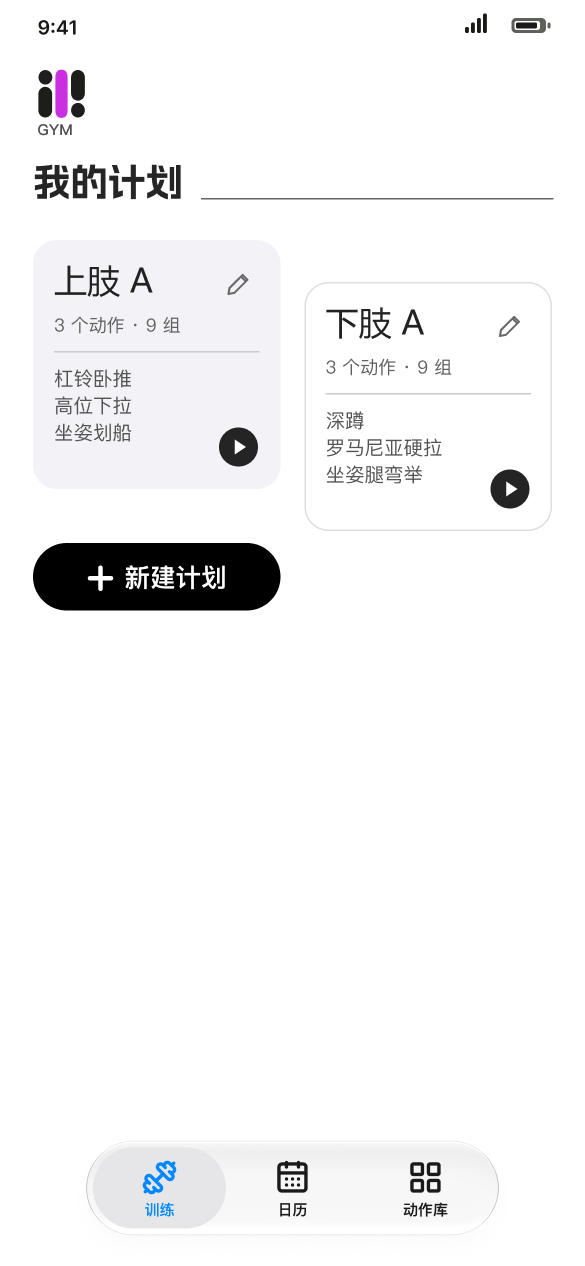
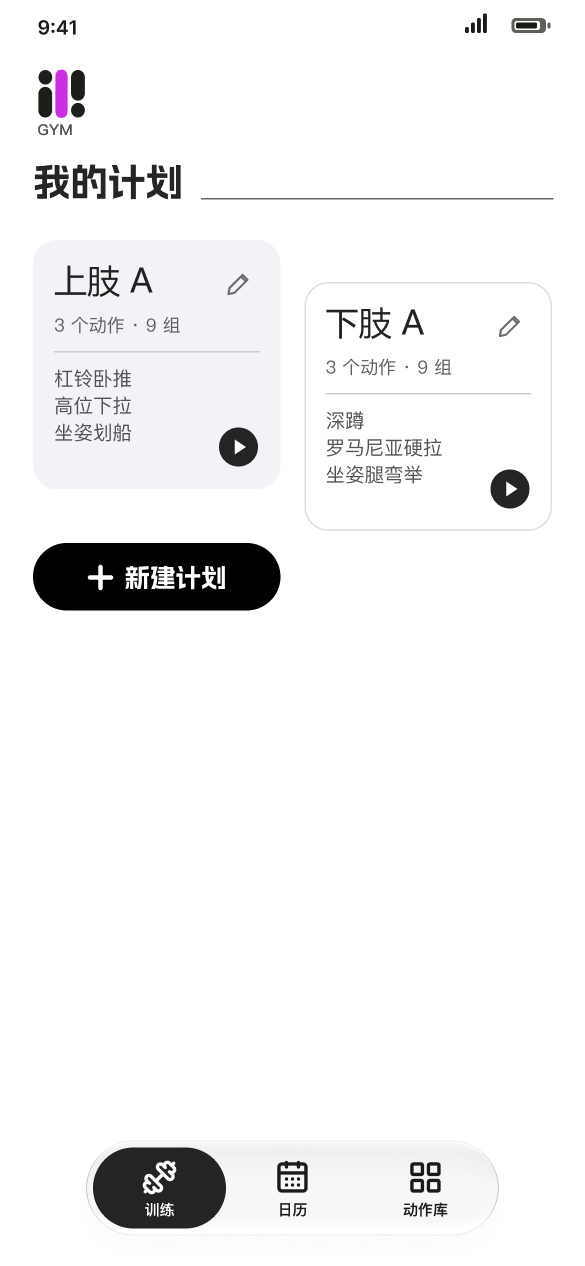
同步原型导航黑色选中态、新建计划字样和开练预览流程

Changed region(s): [[0.1538, 0.8934, 0.4, 0.9858], [0.2154, 0.4313, 0.4, 0.4621]]

diff --git a/docs/设计日志/健身/设计与写作规则.md b/docs/设计日志/健身/设计与写作规则.md
@@ -39,6 +39,8 @@
 
 训练中点重量、次数或秒数直接在该框录入。重量允许小数，次数与秒数为整数。单侧动作分别编辑左、右值。切换字段与勾选可连续操作，只有组菜单和历史删除确认使用弹层。
 
-主导航为悬浮胶囊。训练、日历、动作库分别使用哑铃、日历页、四格图标，选中入口为蓝色。浏览动作库时只显示左下训练返回入口；进行中的训练沿用当次训练操作栏。计划双列的浅色实底采用 #F2F2F7。
+主导航为悬浮胶囊。训练、日历、动作库分别使用哑铃、日历页、四格图标，选中入口为 #242424 底、白色图标与文字。浏览动作库时只显示左下训练返回入口；进行中的训练沿用当次训练操作栏。计划双列的浅色实底采用 #F2F2F7。
 
 手机主屏幕图标沿用 Figma EX 首页的 GYM 标志，保留白底、黑色图形、紫色中柱和底部 GYM 字样。桌面入口独立于 ToDo，启动后进入健身手机页。
+
+首页「新建计划」按钮用阿里妈妈数黑体 Bold，字号 17 px，字距 0%。主稿与保存后、最小化等首页状态遵循同一样式。

diff --git a/docs/设计日志/健身/设计日志.md b/docs/设计日志/健身/设计日志.md
@@ -154,3 +154,9 @@
 ## 2026-11-12-10｜开练按钮箭头
 
 在用户微调后的动作卡细化画板（31:14877）内，为现有 STAR 标签添加白色圆头右箭头。文字和箭头按一个整体在按钮内居中，已回看按钮并更新整屏预览。
+
+## 2026-11-12-11｜将左侧概览的导航、按钮与开练预览同步到原型
+
+读取最新 01 首页的选中底色 #242424 和白色矢量描边、文字，更新训练、日历、收起态导航组件。逐个回读 25 个实例。10 处「新建计划」按钮统一为 17 px 阿里妈妈数黑体 Bold、字距 0%。
+
+以 31:14877 为视觉基准，复制实际弹层到右侧「原型状态 · 开始计划」分区。上肢、下肢和力量补充七种动作组合分别显示本计划的动作、组数与配图；无插图的动作保留图位。复核 25 张计划卡及其播放按钮共 50 个入口、9 个 STAR 开始目标。弹层关闭返回来源，继续已有训练仍走原恢复路径。已更新代表画板与总览预览图，本轮未发布网页。

diff --git a/docs/设计日志/健身/新窗口交接.md b/docs/设计日志/健身/新窗口交接.md
@@ -4,7 +4,7 @@
 
 ## 本轮工作
 
-用户已确认手机端画板「开始计划」（29:14565）为开练前预览的结构基准。其左侧「开始计划 · 动作卡细化」（31:14877）供本轮视觉评审，底部 STAR 按钮已配右箭头。[卡片细化预览](预览/手机网页/31-14877.png)。待统一剩余修改后再改代码；线上 1.11.6 仍为点计划直接开始。
+最新设计基准为左侧定稿「开始计划 · 动作卡细化」(31:14877)。手机端原型已从 01 首页接入开练预览，覆盖上肢、下肢与新建计划的七种样例组合；关闭回到原首页状态，STAR 箭头进入对应训练。25 个导航实例已同步黑底白图标选中态，10 处「新建计划」按钮已同步 17 px 阿里妈妈数黑体 Bold。当前仅 Figma 已更新，线上仍为 1.11.6。
 
 1.11.6 已上线健身手机 Web App 桌面图标，源自 Figma EX 首页组件 18:7582。安装名称为「在侧健身」，启动目标指定手机训练页。
 
